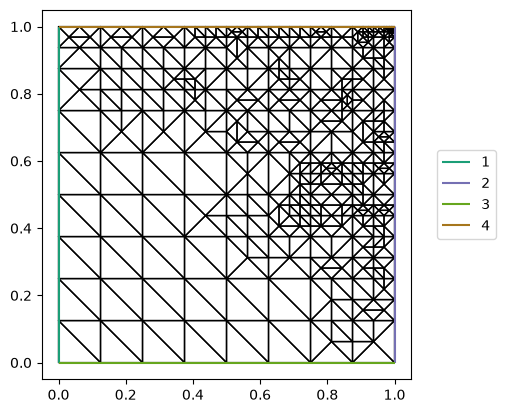
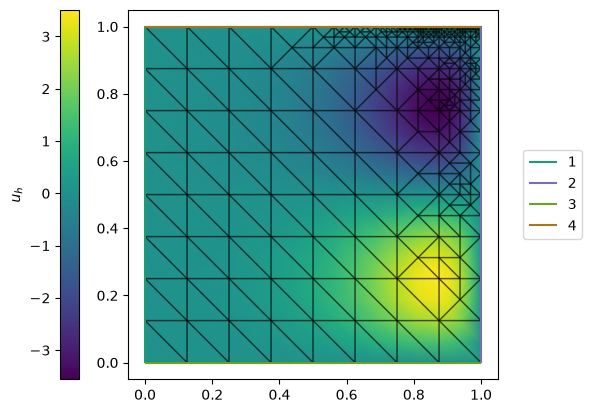
Solve the p-Laplacian demo from a Poisson initial guess with newtontr
Replace the initial guess interpolated from the exact solution with the
solution of a Poisson problem. Scale it by the minimiser of the energy along
it, then run the adaptive solve with the trust-region Newton method and the
energy as its objective. Derive the residual from the energy.

Use the net outward flux through the top boundary as the goal, plot the DWR
estimate against the true error, and plot the solution under the adapted mesh
right after the solve.

diff --git a/demos/goal_oriented_nonlinear_p_laplacian/goal_oriented_nonlinear_p_laplacian.py.rst b/demos/goal_oriented_nonlinear_p_laplacian/goal_oriented_nonlinear_p_laplacian.py.rst
@@ -1,5 +1,5 @@
-Goal-based adaptivity for stationary boundary value problems
-============================================================
+Goal-oriented adaptivity for stationary boundary value problems
+===============================================================
 
 .. rst-class:: emphasis
 
@@ -46,44 +46,76 @@ refined in place, so we start from a uniform mesh:
   f = -div(inner(grad(u_exact), grad(u_exact))**((p-2)/2) * grad(u_exact))
 
 The manufactured solution vanishes on all four edges, so the boundary condition
-is homogeneous. The problem is strongly nonlinear, so for the purposes of this
-demo we cheat and start from an initial guess close to the exact solution. The
-integrand is not polynomial, so we ask for a richer quadrature rule than the
-degree of the space alone would suggest:
+is homogeneous. The :math:`p`-Laplacian is the Euler--Lagrange equation of the
+energy
+
+.. math::
+    E(u) = \frac{1}{p} \int_\Omega |\nabla u|^p \,\mathrm{d}x - \int_\Omega f u \,\mathrm{d}x,
+
+so we write down :math:`E` and ask UFL for the residual :math:`F` as its
+derivative. The integrand is not polynomial, so we ask for a richer quadrature
+rule than the degree of the space alone would suggest:
 
 .. code-block:: python
 
   u = Function(V, name="Solution")
-  u.interpolate(0.99*u_exact)
 
-  v = TestFunction(V)
   quadrature = {"degree": 2*degree + 2}
-  F = (inner(inner(grad(u), grad(u))**((p-2)/2) * grad(u), grad(v))*dx(**quadrature)
-       - inner(f, v)*dx(**quadrature))
+  E = (1/p)*inner(grad(u), grad(u))**(p/2)*dx(**quadrature) - inner(f, u)*dx(**quadrature)
+  F = derivative(E, u)
   bcs = DirichletBC(V, 0, "on_boundary")
 
-To apply goal-based adaptivity we need a goal functional. Here we use the
-integral of the normal derivative of the solution over the top boundary, which
-`UnitSquareMesh` numbers ``4``:
+The problem is strongly nonlinear, so we need a good initial guess. A constant
+initial guess, such as :math:`u = 0`, is a poor choice: the diffusivity
+:math:`|\nabla u|^{p-2}` is zero there, and so is the Jacobian. We solve the
+Poisson problem :math:`-\Delta w = f` with the same boundary condition instead:
 
 .. code-block:: python
 
-  n = FacetNormal(mesh)
-  J = inner(grad(u), n)*ds(4)
+  v = TestFunction(V)
+  w = TrialFunction(V)
+  solve(inner(grad(w), grad(v))*dx == inner(f, v)*dx(**quadrature), u, bcs)
 
-The estimate splits in two: the error committed by discretising, and the error
-committed by not solving the algebraic system exactly. Because DWR measures
-that algebraic error too, a very coarse tolerance on the nonlinear solver
-costs us nothing:
+The forcing :math:`f` was computed for :math:`p = 5`, so the Poisson solution
+has the wrong magnitude. We scale :math:`w` by the value of :math:`c` that
+minimises :math:`E(c w)`, which is
+:math:`c = \left(\int_\Omega f w \,\mathrm{d}x \big/ \int_\Omega |\nabla w|^p \,\mathrm{d}x\right)^{1/(p-1)}`:
+
+.. code-block:: python
+
+  c = (assemble(inner(f, u)*dx(**quadrature))
+       / assemble(inner(grad(u), grad(u))**(p/2)*dx(**quadrature)))**(1/(float(p) - 1))
+  u.assign(c*u)
+
+We use the net outward flux through the top boundary as the goal functional.
+The flux vector is :math:`\mathbf{q}(u) = -|\nabla u|^{p-2}\nabla u`, so the
+goal is :math:`J(u) = \int_{\Gamma_{\mathrm{top}}} \mathbf{q}(u) \cdot n\,\mathrm{d}s`.
+The manufactured solution gives a negative value, which indicates net inflow.
+``UnitSquareMesh`` numbers the top boundary ``4``. We use higher quadrature on
+this boundary to evaluate the reference flux accurately.
+
+.. code-block:: python
+
+  flux = -inner(grad(u), grad(u))**((p-2)/2) * grad(u)
+  n = FacetNormal(mesh)
+  J = inner(flux, n)*ds(4, degree=16)
+
+We solve the nonlinear problem with a trust-region Newton method. This method
+uses the energy :math:`E` as an objective to accept or reject each step. We
+solve each linear system with a sparse LU factorisation from MUMPS. The DWR
+estimate includes contributions from discretisation and from solving the
+nonlinear system to a finite tolerance. We use a tight relative tolerance so
+that the discretisation error dominates in this example.
 
 .. code-block:: python
 
   solver_parameters = {
+      "snes_type": "newtontr",
       "snes_atol": 1.0e-6,
-      "snes_rtol": 1.0e-1,
-      "snes_linesearch_type": "l2",
+      "snes_rtol": 1.0e-8,
       "ksp_type": "preonly",
       "pc_type": "lu",
+      "pc_factor_mat_solver_type": "mumps",
   }
 
 The DWR machinery localises the residual by projecting it onto cell-bubble and
@@ -108,47 +140,62 @@ indicator, and ``goal_monitor`` reports the estimate at each cycle:
       "goal_monitor": None,
   })
 
-The adaptive loop is handled inside the solver.  It runs the configured
+The adaptive loop is handled inside ``solve``.  It runs the configured
 SOLVE--ESTIMATE--MARK--REFINE cycle, and the marking callback supplies the
-cells to refine.  We also pass the exact solution, which lets the monitor
+cells to refine.  The ``objective`` argument gives the energy to the
+trust-region method.  We also pass the exact solution, which lets the monitor
 report the true error and an effectivity index.  Of course, this is not needed
 in general:
 
 .. code-block:: python
 
   initial_dofs = V.dim()
-  problem = NonlinearVariationalProblem(F, u, bcs)
   marker = GoalOrientedMarker(J, exact_solution=u_exact)
-  solver = NonlinearVariationalSolver(
-      problem,
-      solver_parameters=solver_parameters,
-      marking_callback=marker,
-  )
-  uh = solver.solve()
+  uh = solve(F == 0, u, bcs, objective=E, solver_parameters=solver_parameters,
+             marking_callback=marker)
 
-``solver.solve()`` returns the solution on the final adapted mesh, in the
-original degree-2 space. ``marker.estimates`` records the estimates in mesh
-order. The last entry gives the most recent estimate :math:`\eta` of the error
-in the goal. If the grid sequence reaches its refinement limit, this estimate
-comes from the mesh before the final refinement:
+``solve`` returns the solution on the final adapted mesh, in the original
+degree-2 space. We plot the solution, and we draw the adapted mesh on top of it
+with transparent lines. The finest cells lie near the top boundary, where the
+goal functional is evaluated, and along the right side of the domain:
+
+.. code-block:: python
+
+  import matplotlib.pyplot as plt
+  from firedrake.pyplot import tripcolor, triplot
+
+  fig, axes = plt.subplots()
+  colours = tripcolor(uh, axes=axes)
+  fig.colorbar(colours, ax=axes, location="left", label="$u_h$")
+  triplot(uh.function_space().mesh().unique(), axes=axes, interior_kw={"alpha": 0.4})
+  axes.set_aspect("equal")
+  axes.legend(loc="center left", bbox_to_anchor=(1.05, 0.5))
+  fig.savefig("goal_oriented_nonlinear_p_laplacian_mesh.png", bbox_inches="tight")
+
+.. image:: goal_oriented_nonlinear_p_laplacian_mesh.png
+   :width: 60%
+   :alt: The adapted mesh over the solution, with the finest cells near the top and right boundaries.
+   :align: center
+
+``marker.estimates`` records the estimates in mesh order. The last entry gives
+the most recent estimate :math:`\eta` of the error in the goal. If the grid
+sequence reaches its refinement limit, this estimate comes from the mesh before
+the final refinement:
 
 .. code-block:: python
 
   print(f"degrees of freedom: {initial_dofs} -> {uh.function_space().dim()}")
   print(f"error estimate: {marker.estimates[-1].error_estimate:.6e}")
 
-In this run, the solver uses all ten refinements. The magnitude of the last
-estimate is about :math:`2.5 \times 10^{-2}`, above ``goal_atol``. The
-effectivity indices
+The solver uses all ten refinements because the magnitude of the estimate
+stays above ``goal_atol``. At each cycle, the monitor reports the goal value,
+the errors, and the effectivity index given by
 
 .. math::
 
-    I = \frac{\eta}{J(u) - J(u_h)}
+    I = \frac{\eta}{J(u) - J(u_h)}.
 
-printed by ``goal_monitor`` range from about :math:`0.82` to :math:`1.26`.
-
-The monitor reports the discretisation and algebraic errors separately. If the
-algebraic error exceeds the discretisation error, the marker prints
+If the algebraic error exceeds the discretisation error, the marker prints
 
 .. code-block:: text
 
@@ -157,23 +204,26 @@ algebraic error exceeds the discretisation error, the marker prints
 Tighten ``snes_rtol`` and ``snes_atol`` if the algebraic error limits the
 accuracy of the goal.
 
-Finally we plot the adapted mesh. The finest cells lie near the top boundary,
-where the goal functional is evaluated, and along the right side of the domain:
+The following plot compares the magnitude of the DWR estimate with the
+magnitude of the true goal error on each mesh that the monitor reports.
 
 .. code-block:: python
 
-  import matplotlib.pyplot as plt
-  from firedrake.pyplot import triplot
+  dofs = [estimate.num_dofs for estimate in marker.estimates]
+  estimated_errors = [abs(estimate.error_estimate) for estimate in marker.estimates]
+  true_errors = [abs(estimate.true_error) for estimate in marker.estimates]
 
   fig, axes = plt.subplots()
-  triplot(uh.function_space().mesh().unique(), axes=axes)
-  axes.set_aspect("equal")
-  axes.legend(loc="center left", bbox_to_anchor=(1.05, 0.5))
-  fig.savefig("goal_oriented_nonlinear_p_laplacian_mesh.png", bbox_inches="tight")
+  axes.loglog(dofs, estimated_errors, "o--", label="DWR estimate")
+  axes.loglog(dofs, true_errors, "s-", label="True error")
+  axes.set_xlabel("Degrees of freedom")
+  axes.set_ylabel("Absolute error in net outward flux")
+  axes.legend()
+  fig.savefig("goal_oriented_nonlinear_p_laplacian_errors.png", bbox_inches="tight")
 
-.. image:: goal_oriented_nonlinear_p_laplacian_mesh.png
-   :width: 60%
-   :alt: The adapted mesh, with the finest cells near the top and right boundaries.
+.. image:: goal_oriented_nonlinear_p_laplacian_errors.png
+   :width: 75%
+   :alt: The magnitudes of the DWR estimate and true goal error follow a similar downward trend.
    :align: center
 
 The estimator used here weights the primal residual by the dual error. Richer
